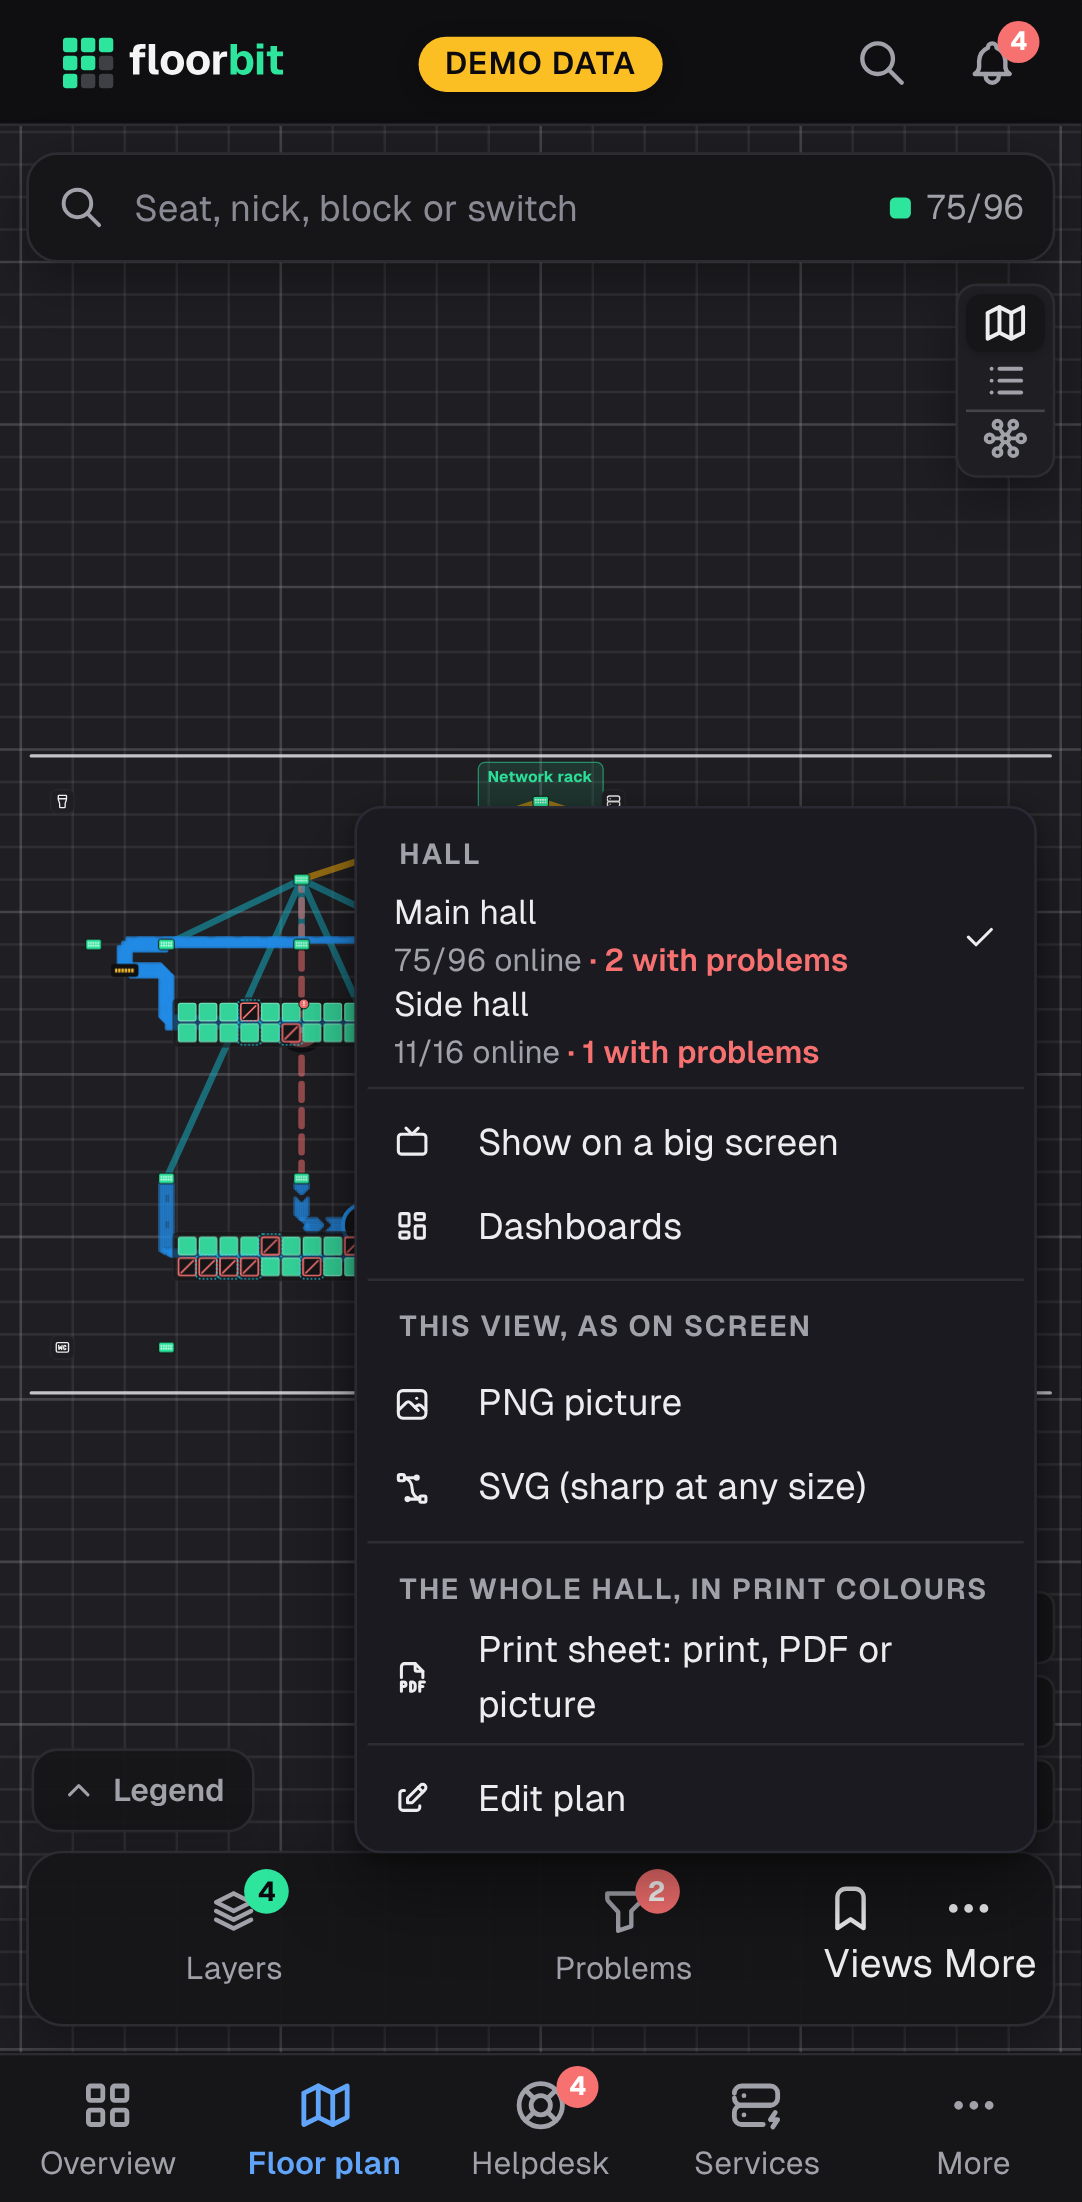
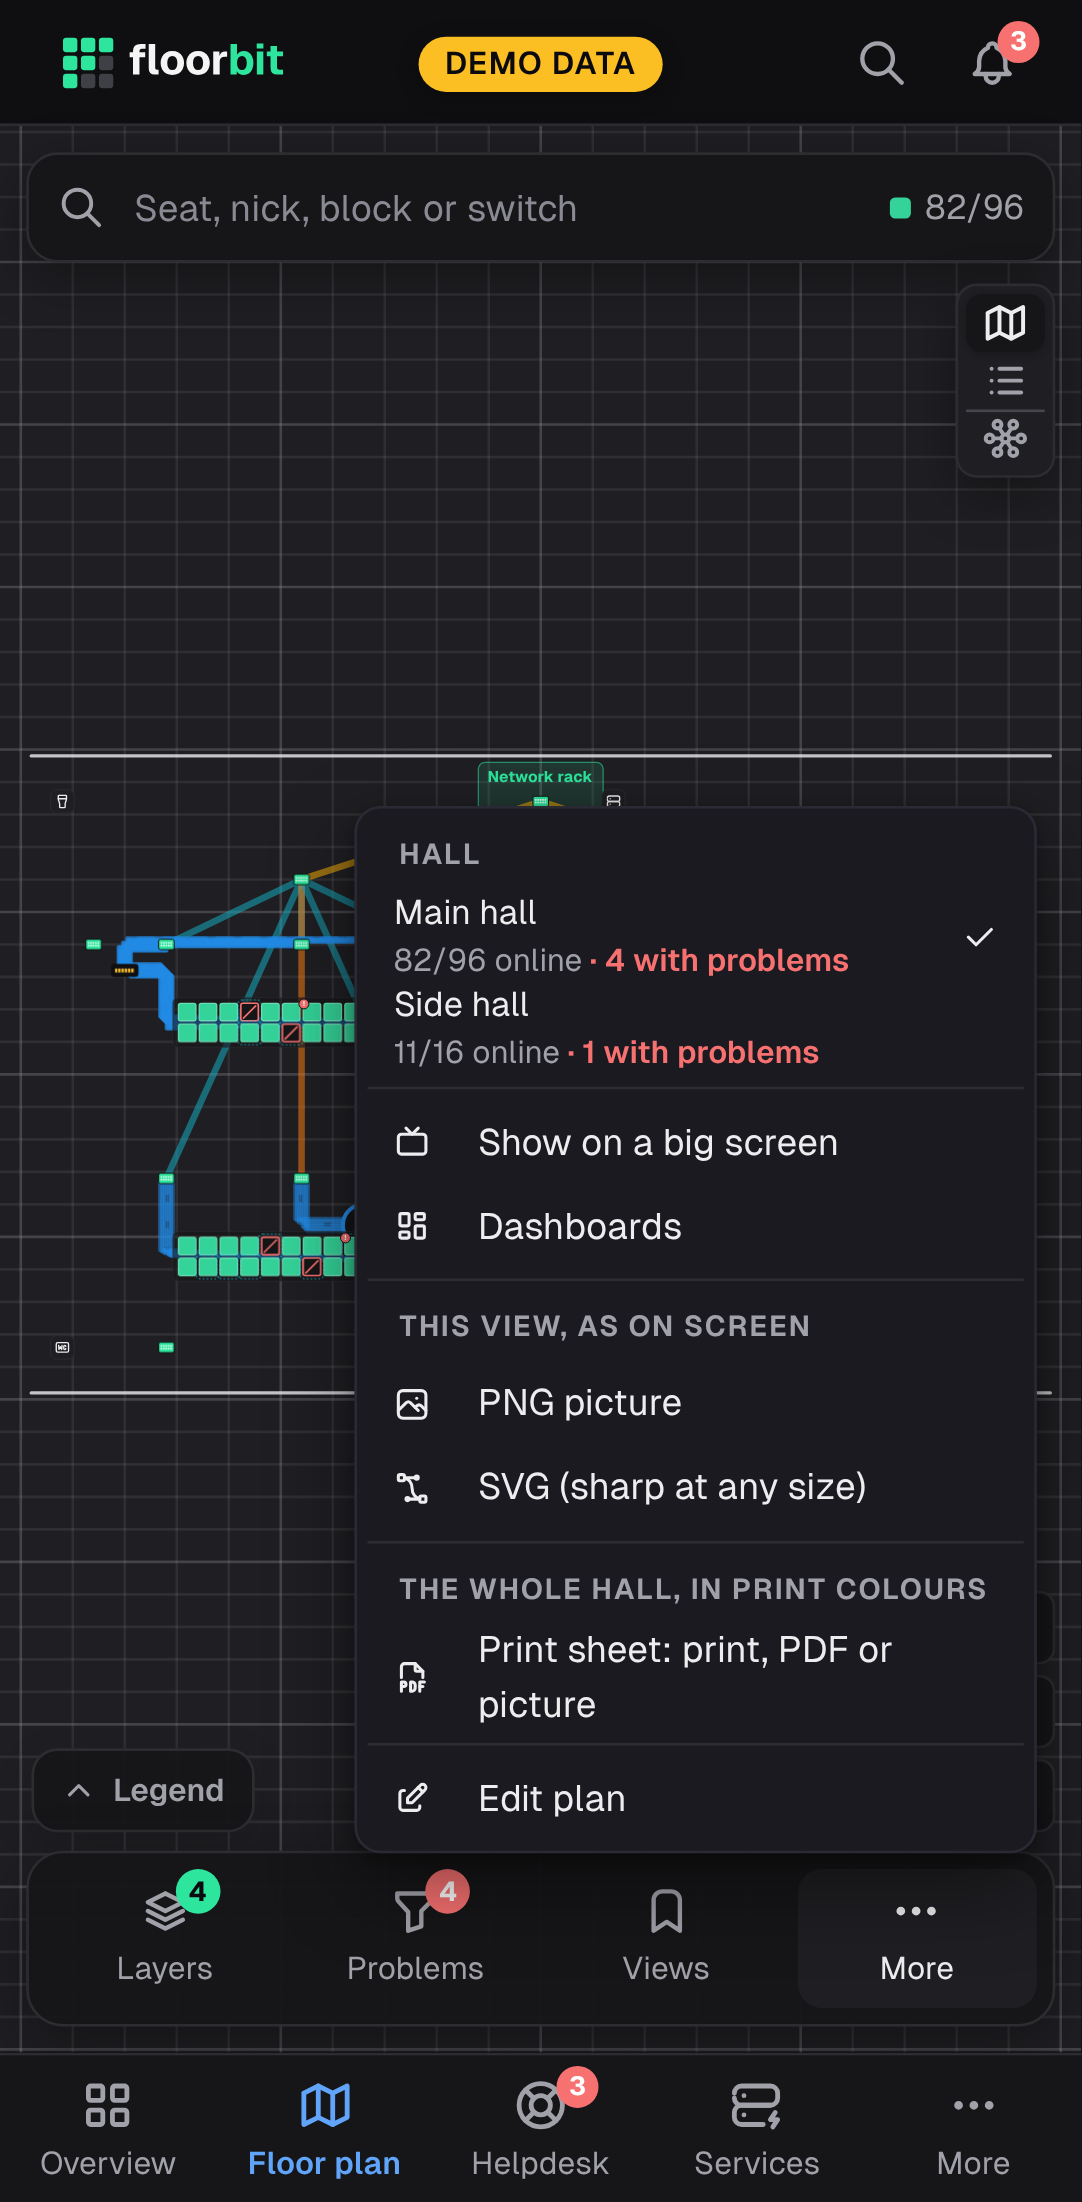
feat(plan): small name before a block numbered as a whole
Blocks without row letters lost their only label with the block tags; they
now show their name in the same small type just before the block.

Claude-Session: https://claude.ai/code/session_01Mn3pym6PyxQu5nxVmoHCQ2

diff --git a/frontend/src/pages/plan/SeatMap.tsx b/frontend/src/pages/plan/SeatMap.tsx
@@ -380,6 +380,12 @@ export function SeatMap({ data, selected, onSelect, onClear, onBlock, onSwitch, 
                   onClick={onBlock ? () => onBlock(b.id ?? b.name) : undefined}
                   transform={b.rotation ? `rotate(${-b.rotation} ${r.x} ${r.y})` : undefined}>{r.text}</text>
               ))}
+              {/* A block numbered as a whole has no row letters: its name, as small, just before it. */}
+              {named.rows && !b.rows?.length && shapeLabel(b) && (
+                <text className={onBlock ? 'rowlbl blkname link' : 'rowlbl blkname'} x={-b.w / 2 - drawing.cell * 0.25} y={0} dy="0.35em"
+                  onClick={onBlock ? () => onBlock(b.id ?? b.name) : undefined}
+                  transform={b.rotation ? `rotate(${-b.rotation} ${-b.w / 2 - drawing.cell * 0.25} 0)` : undefined}>{shapeLabel(b)}</text>
+              )}
               <BlockSeats cells={b.cells} rotation={b.rotation} seats={data.seats} cell={drawing.cell} filter={filter} selected={selected} only={focus?.seats}
                 cursor={b.cells.some((c) => c.seat === cursor) ? cursor : null} traffic={traffic} problems={layers.on.has('problems')} firewalls={firewalls} marks={pluginSeats}
                 checkin={layers.on.has('checkin')} incidents={incidents?.seats} level={level} labels={seatLabels} ids={ids} onEnter={enterSeat} onLeave={leaveSeat} onClick={clickSeat} describe={stateText} />

diff --git a/frontend/src/styles/plan.css b/frontend/src/styles/plan.css
@@ -249,6 +249,7 @@
 .fb-block-bar .on { background: var(--bnb-ok); }
 .fb-block-bar .off { background: var(--bnb-err); }
 .fb-block-bar .unk { background: repeating-linear-gradient(45deg, var(--bnb-muted) 0 3px, transparent 3px 6px); }
+.fb-plan .rowlbl.blkname { text-anchor: end; }
 .fb-plan .btag-bad.link, .fb-plan .rowlbl.link { cursor: pointer; pointer-events: auto; }
 .fb-plan .rowlbl.link:hover { fill: var(--bnb-fg); }
 .fb-block-seat:focus-visible { outline: 2px solid var(--bnb-accent); outline-offset: 2px; border-radius: 6px; }
